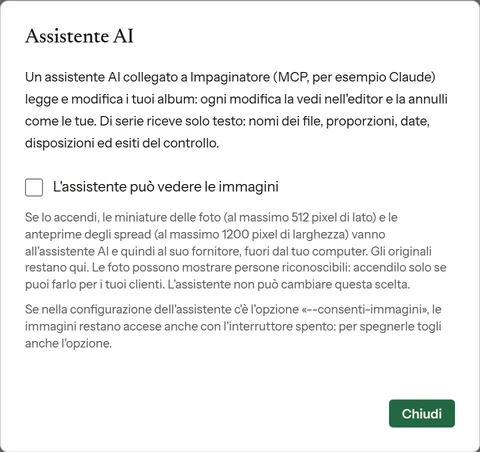
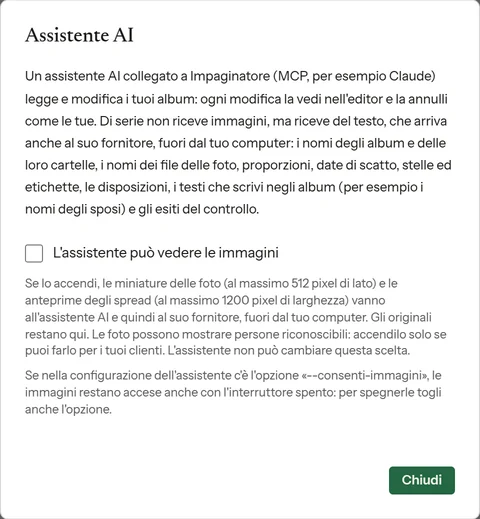
doc(sito): la schermata «Assistente AI» del sito ha il testo di oggi (di serie partono verso il fornitore nomi di album, cartelle e file e i testi degli album), con testo alternativo e misura 960 × 1038
Originali da marketing/sito/strumenti/schermate.py (foto sintetiche); WebP rifatti solo per questa scena. sito.py controlla: 0 errori.

diff --git a/marketing/sito/index.html b/marketing/sito/index.html
@@ -442,7 +442,7 @@
         <p class="secondario piccolo">Serve Claude Desktop o Claude Code con il tuo account Claude, a parte. Claude riceve testo: nomi degli album, delle cartelle e dei file, misure, date, i testi scritti nell’album, gli esiti del controllo; tutto questo arriva ad Anthropic, che lo tratta con le sue condizioni. Le immagini sono spente di serie: miniature delle foto e anteprime degli spread partono solo se le accendi tu, gli originali mai.</p>
       </div>
       <figure class="tavola">
-        <div class="foglio"><img src="img/schermate/assistente-960.webp" srcset="img/schermate/assistente-480.webp 480w, img/schermate/assistente-960.webp 960w" sizes="(min-width: 1328px) 690px, (min-width: 861px) 56vw, 92vw" width="960" height="904" loading="lazy" alt="La finestra Assistente AI della schermata degli album: spiega che di serie l’assistente riceve solo testo; l’interruttore L’assistente può vedere le immagini è spento, e sotto c’è cosa partirebbe se lo accendi."></div>
+        <div class="foglio"><img src="img/schermate/assistente-960.webp" srcset="img/schermate/assistente-480.webp 480w, img/schermate/assistente-960.webp 960w" sizes="(min-width: 1328px) 690px, (min-width: 861px) 56vw, 92vw" width="960" height="1038" loading="lazy" alt="La finestra Assistente AI della schermata degli album: spiega che di serie l’assistente non riceve immagini, ma riceve testo che arriva anche al suo fornitore (nomi di album, cartelle e file, testi scritti negli album, esiti del controllo); l’interruttore L’assistente può vedere le immagini è spento, e sotto c’è cosa partirebbe se lo accendi."></div>
         <figcaption>Le impostazioni dell’assistente: le immagini restano spente finché non le accendi tu.</figcaption>
       </figure>
     </article>

diff --git a/marketing/sito/en/index.html b/marketing/sito/en/index.html
@@ -433,7 +433,7 @@
         <p class="secondario piccolo">Needs Claude Desktop or Claude Code with your own Claude account, paid separately. Claude receives text: names of albums, folders and files, sizes, dates, the text written in the album, the check results; all of it goes to Anthropic, under its own terms. Images are off by default: photo thumbnails and spread previews are sent only if you turn them on, the originals never.</p>
       </div>
       <figure class="tavola">
-        <div class="foglio"><img src="../img/schermate/assistente-en-960.webp" srcset="../img/schermate/assistente-en-480.webp 480w, ../img/schermate/assistente-en-960.webp 960w" sizes="(min-width: 1328px) 690px, (min-width: 861px) 56vw, 92vw" width="960" height="904" loading="lazy" alt="The AI assistant window of the Albums screen: it explains that by default the assistant receives text only; the switch The assistant can see images is off, and below is what would be sent if you turn it on."></div>
+        <div class="foglio"><img src="../img/schermate/assistente-en-960.webp" srcset="../img/schermate/assistente-en-480.webp 480w, ../img/schermate/assistente-en-960.webp 960w" sizes="(min-width: 1328px) 690px, (min-width: 861px) 56vw, 92vw" width="960" height="1038" loading="lazy" alt="The AI assistant window of the Albums screen: it explains that by default the assistant gets no images, but it does get text that also reaches its provider (names of albums, folders and files, texts written in albums, check results); the switch The assistant can see images is off, and below is what would be sent if you turn it on."></div>
         <figcaption>The assistant settings: images stay off until you turn them on.</figcaption>
       </figure>
     </article>

diff --git a/marketing/sito/strumenti/sito.py b/marketing/sito/strumenti/sito.py
@@ -65,7 +65,7 @@ _SCHERMATE = [
          cosa="Finestra «Esporta», linguetta «PSD a livelli» (licenza Pro): serve Photoshop su questo computer"),
     dict(nome="nuovo-album", misura=(960, 1014), larghezze=(480, 960),
          cosa="Finestra «Nuovo album» con un prodotto del catalogo Generico (formati comuni, nessun laboratorio)"),
-    dict(nome="assistente", misura=(960, 904), larghezze=(480, 960),
+    dict(nome="assistente", misura=(960, 1038), larghezze=(480, 960),
          cosa="Finestra «Assistente AI» della schermata Album: immagini spente (di serie)"),
 ]
 SCHERMATE = [dict(s, nome=s["nome"] + suff, sorgente=s["nome"] + suff + ".png", stato="2.0") for s in _SCHERMATE for suff in ("", "-en")]

diff --git a/marketing/sito/README.md b/marketing/sito/README.md
@@ -109,7 +109,7 @@ Le schermate vengono dalla versione 2.0 (T-205, T-206), in italiano e in inglese
 | `controlla`, `-en` | 1460 × 1050 | Pannello «Controlla l'album» accanto allo spread, dopo due ritocchi fatti apposta (una foto schiarita di 0,9 EV, una spostata di 8 pixel della pagina) | funzione «Controlla, poi Sistema» |
 | `esporta-psd`, `-en` | 1120 × 914 | Finestra «Esporta» sulla linguetta «PSD a livelli» | funzione «PSD» (non c'è una schermata di Photoshop) |
 | `nuovo-album`, `-en` | 960 × 1014 | Finestra «Nuovo album» con un prodotto del catalogo dei formati comuni | funzione «Formati e cataloghi» |
-| `assistente`, `-en` | 960 × 904 | Finestra «Assistente AI» della schermata degli album, immagini spente | sezione Claude |
+| `assistente`, `-en` | 960 × 1038 | Finestra «Assistente AI» della schermata degli album, immagini spente | sezione Claude |
 
 Rifarle (Chrome; nessuna rete; casa finta in una cartella temporanea, i dati dell'utente non si toccano):
 
